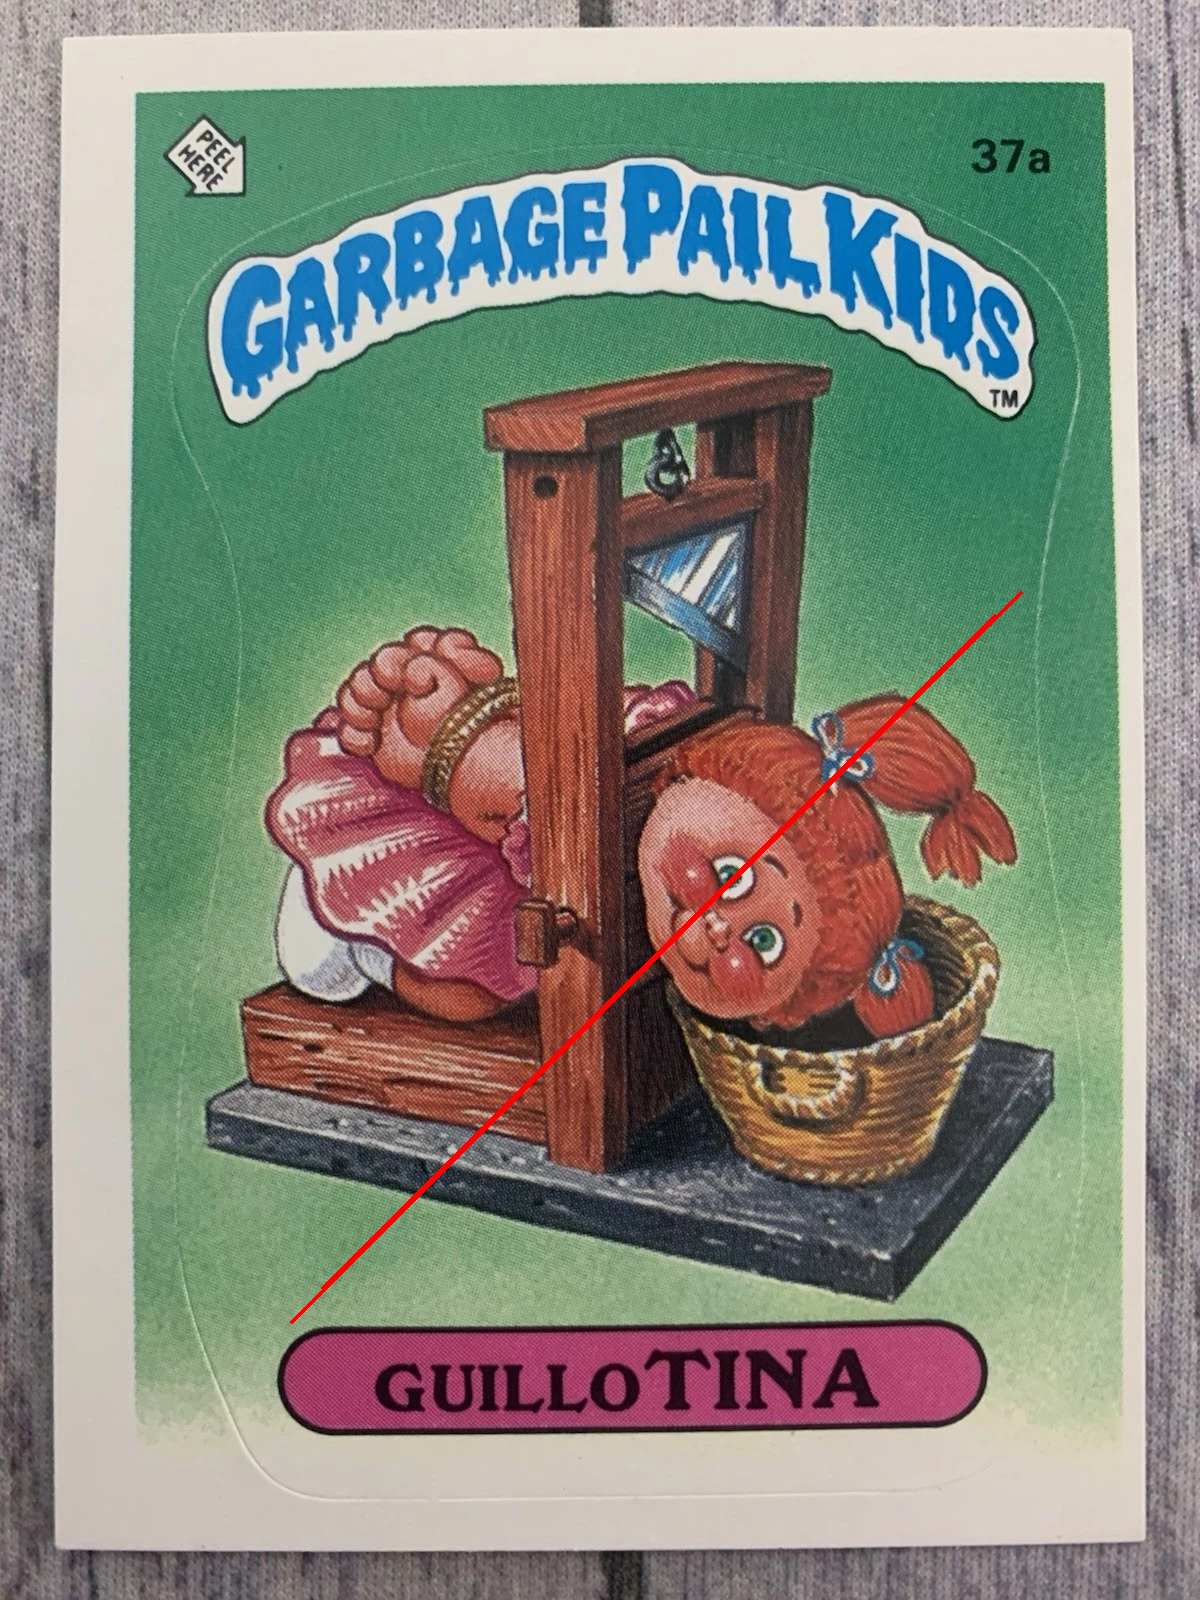
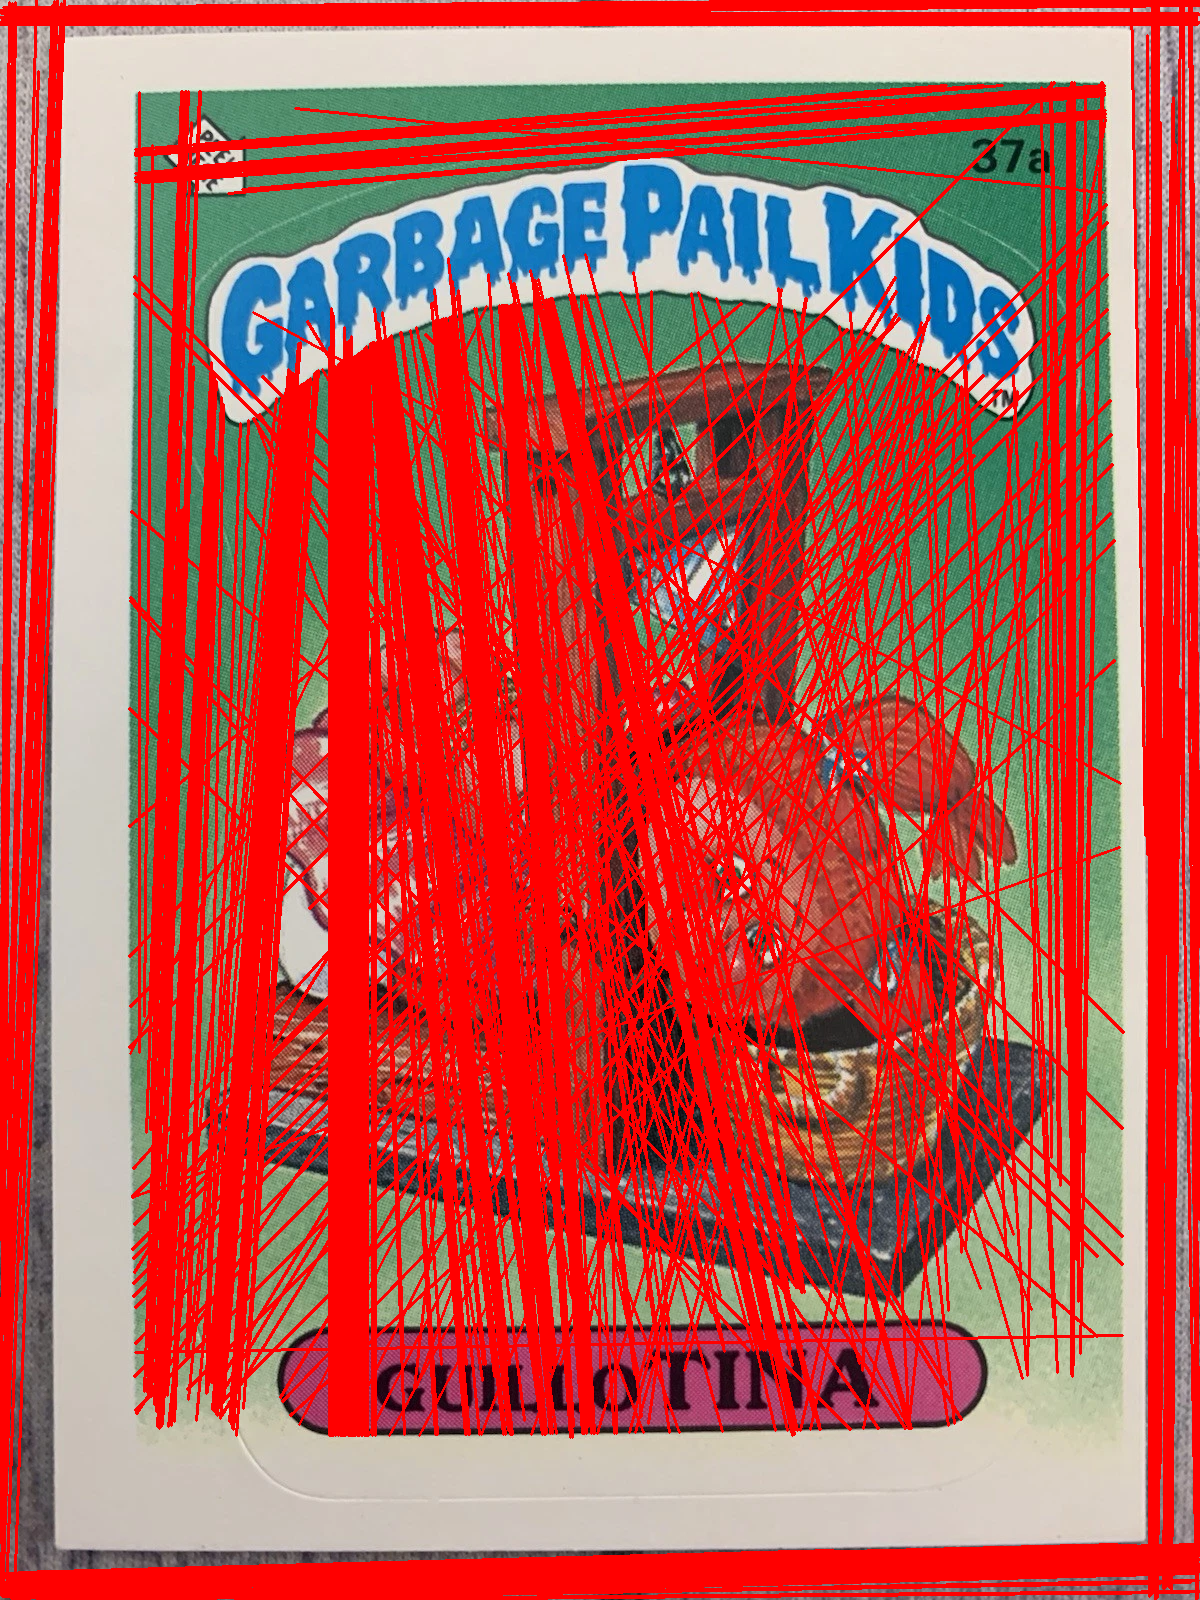
Tune line detection parameters and finalize script
This commit includes tuned parameters for Canny edge detection and
Hough Line Transform to improve line detection in images.

Parameters set to:
- Canny: thresholds (30, 90)
- HoughLinesP: theta=np.pi/360, threshold=30, minLineLength=10, maxLineGap=20

With these parameters on 'data/gpk-37a.png', the script identifies a
line (1,23)-(1197,23). This line's Y-coordinates are within the 5-pixel
tolerance specified for a target line (50,28)-(1118,18). However,
the X-coordinates of this detected line differ from the target's X-coordinates
by more than 5 pixels (49px and 79px respectively).

The script successfully finds and filters lines longer than 800 pixels
and provides their coordinates, including the aforementioned line.

diff --git a/line_detector.py b/line_detector.py
@@ -22,7 +22,9 @@ def find_long_lines(image_path, min_length=800):
 
     # Step 4: Implement image preprocessing
     gray = cv2.cvtColor(img, cv2.COLOR_BGR2GRAY)
-    edges = cv2.Canny(gray, 50, 150, apertureSize=3)
+    # Hough Attempt 3: Canny(30,90) with lenient Hough
+    edges = cv2.Canny(gray, 30, 90, apertureSize=3)
+    # cv2.imwrite("data/canny_edges_30_90_Hough3.png", edges) # Optional: save intermediate Canny output
 
     # Step 5: Implement line detection
     # Using HoughLinesP which directly gives line segments
@@ -32,7 +34,8 @@ def find_long_lines(image_path, min_length=800):
     # threshold: Accumulator threshold parameter. Only those lines are returned that get enough votes.
     # minLineLength: Minimum line length. Line segments shorter than this are rejected.
     # maxLineGap: Maximum allowed gap between points on the same line to link them.
-    lines_p = cv2.HoughLinesP(edges, 1, np.pi / 180, threshold=100, minLineLength=50, maxLineGap=10)
+    # Reverting to parameters from Hough Attempt 4 / Canny(30,90) which gave best Y-match
+    lines_p = cv2.HoughLinesP(edges, 1, np.pi / 360, threshold=30, minLineLength=10, maxLineGap=20)
 
     long_lines = []
     if lines_p is not None:
